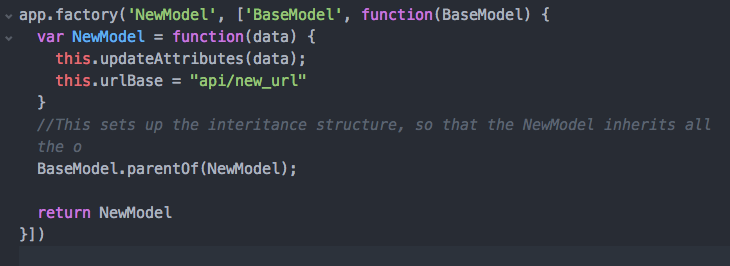
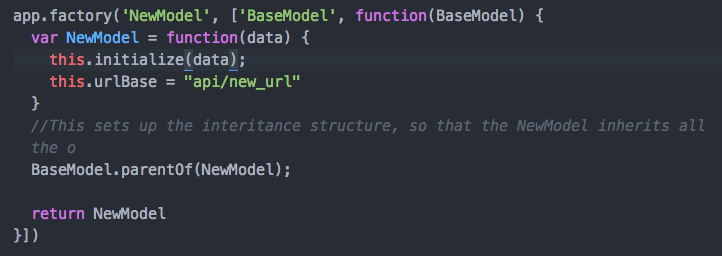
Add destroy method

diff --git a/ModelFactory.js b/ModelFactory.js
@@ -4,11 +4,20 @@
 
   ModelFactory.factory( 'BaseModel', ['$http', function($http) {
 
+    var BaseModel = function(data) {
+      this.initialize(data);
+  }
+
 
     BaseModel.parentOf =  function(child) {
       var Surrogate = function() {};
       Surrogate.prototype = this.prototype;
       child.prototype  = new Surrogate();
+    }
+
+    BaseModel.prototype.initialize = function(data) {
+      this.updateAttributes(data);
+      this.collections = [];
     }
 
     BaseModel.prototype.updateAttributes = function(data) {
@@ -91,6 +100,33 @@
       }
 
     }
+
+    BaseModel.prototype.belongsTo = function(collection) {
+      this.collections.push(collection)
+      return this;
+    }
+
+    BaseModel.prototype.removeFromCollections = function() {
+      this.collections.forEach(function(collection) {
+        collection.remove(this.id);
+      }.bind(this));
+      return this;
+    }
+
+
+
+    BaseModel.prototype.destroy = function(options) {
+      options = options || {};
+      $http.delete(this.url).success(function() {
+        this.removeFromCollections();
+        options.success && options.success()
+      }.bind(this)).error(function() {
+        options.error && options.error
+      })
+    }
+
+
+
 
     return BaseModel;
 
@@ -192,13 +228,34 @@ ModelFactory.factory('BaseCollection', ['$http',function($http) {
     return this;
   }
 
-
+  BaseCollection.prototype.remove = function(id) {
+    if (typeof id === 'object') {
+      id = id.id
+    }
+    if ( this.modelsById[id]) {
+      delete this.modelsById[id];
+      var index = this.findIndex(id);
+      if (index >=0) {
+        this.models.splice(index, 1);
+      }
+    }
+  }
 
 
 
 
   BaseCollection.prototype.find = function(id) {
     return this.modelsById[id];
+  }
+
+  BaseCollection.prototype.findIndex = function(id) {
+    var index = -1
+    this.models.forEach(function(model, idx) {
+      if (model.id === id) {
+        index = idx;
+      }
+    })
+    return index;
   }
 
   BaseCollection.prototype.where = function(callback) {
@@ -222,7 +279,7 @@ ModelFactory.factory('BaseCollection', ['$http',function($http) {
   // returns the first n items in the collection. if no number is passed, it returns the first item
   BaseCollection.prototype.first = function(n) {
     n = n || 1;
-    return this.models.splice(0, n);
+    return this.models.slice(0, n);
   }
 
   return BaseCollection;

diff --git a/examples/ExampleModel.js b/examples/ExampleModel.js
@@ -1,7 +1,7 @@
 
 app.factory('NewModel', ['BaseModel', function(BaseModel) {
   var NewModel = function(data) {
-    this.updateAttributes(data);
+    this.initialize(data);
     this.urlBase = "api/new_url"
   }
   //This sets up the interitance structure, so that the NewModel inherits all the o
